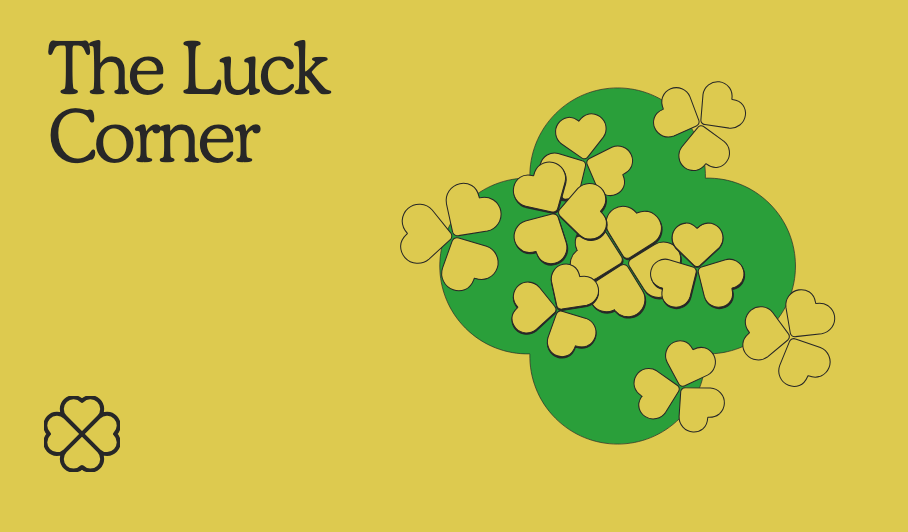
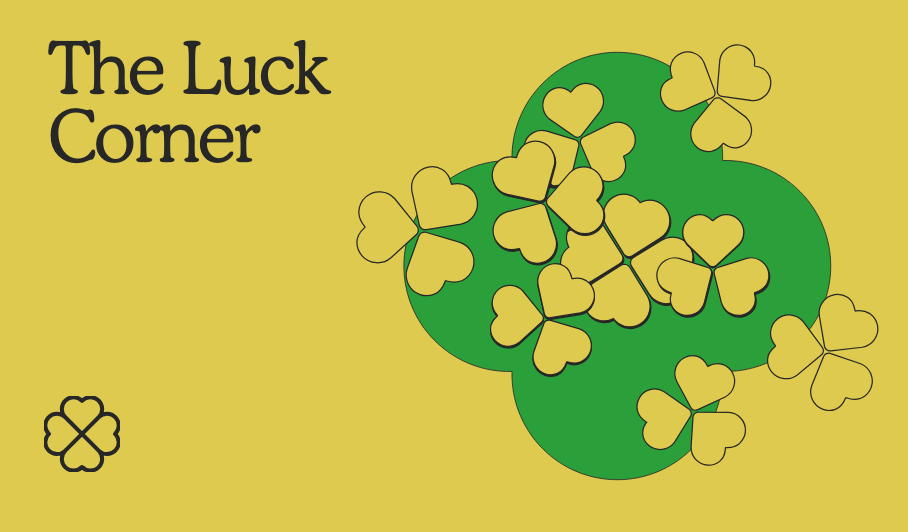
Share previews: each drawing framed as marked (zoomed crops for dandelion, wearing red, hito, buddha, dreamcatcher without the left clouds, flower, pig, grapes, teru teru, rice cakes; stones smaller, clovers bigger)

diff --git a/og.html b/og.html
@@ -70,6 +70,8 @@
       object-position: right center;
     }
 
+    .og--art.is-framed { right: auto; bottom: auto; max-width: none; object-fit: fill; }
+
     /* one alone, edge to edge, for the picture */
     .is-shot body { padding: 0; background: none; }
     .is-shot .og { border-radius: 0; }
@@ -79,11 +81,44 @@
   <main id="out"></main>
   <script src="cards.js?v=187"></script>
   <script>
+    // How each drawing is framed: [x, y, w, h], the part of it to show (in
+    // its own units), filling the card's height at the right, bleeding off
+    // the edges; or a scale on the whole drawing, fitted
+    const VIEW = {
+      dandelion: [-88, -26, 538, 532],
+      'wear-red': [76, 200, 576, 580],
+      hito: [-58, -33, 653, 547],
+      buddha: [-26, -14, 388, 348],
+      dreamcatcher: [60, -15, 513, 754],
+      flower: [-57, -13, 402, 384],
+      pig: [-31, -29, 473, 461],
+      grapes: [-168, 78, 692, 692],
+      'teru-teru': [14, 124, 487, 531],
+      'rice-cakes': [-10, -10, 640, 600],
+      stones: 0.88,
+      clover: 1.2,
+    };
+    function frame(img) {
+      const v = VIEW[img.dataset.slug];
+      if (typeof v === 'number') { img.style.scale = v; return; }
+      if (!v) return;
+      const [x, y, w, h] = v;
+      const H = img.parentNode.clientHeight;
+      const W = img.parentNode.clientWidth;
+      const k = H / h;
+      img.classList.add('is-framed');
+      Object.assign(img.style, {
+        width: `${img.naturalWidth * k}px`,
+        height: `${img.naturalHeight * k}px`,
+        left: `${W - w * k - x * k}px`,
+        top: `${-y * k}px`,
+      });
+    }
     const ink = (c) => (['var(--forest-green)', 'var(--hot-pink)'].includes(c) ? 'light' : 'dark');
     const card = (name) => `<div class="og" style="--bg: ${CARD_COLOR[name]}" data-ink="${ink(CARD_COLOR[name])}">
         <p class="og--name">The Luck<br>Corner</p>
         <span class="og--clover"></span>
-        <img class="og--art" src="assets/og/art/${SHARE_SLUG[name]}.svg" alt="">
+        <img class="og--art" data-slug="${SHARE_SLUG[name]}" src="assets/og/art/${SHARE_SLUG[name]}.svg?v=2" alt="" onload="frame(this)">
       </div>`;
     const want = new URLSearchParams(location.search).get('card');
     const out = document.getElementById('out');
